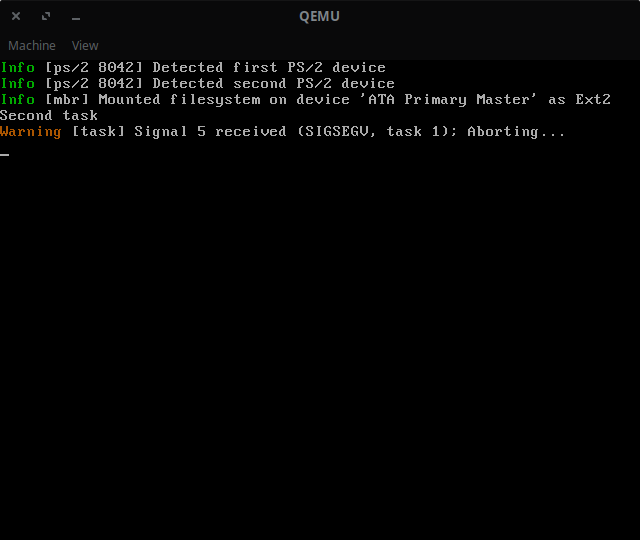
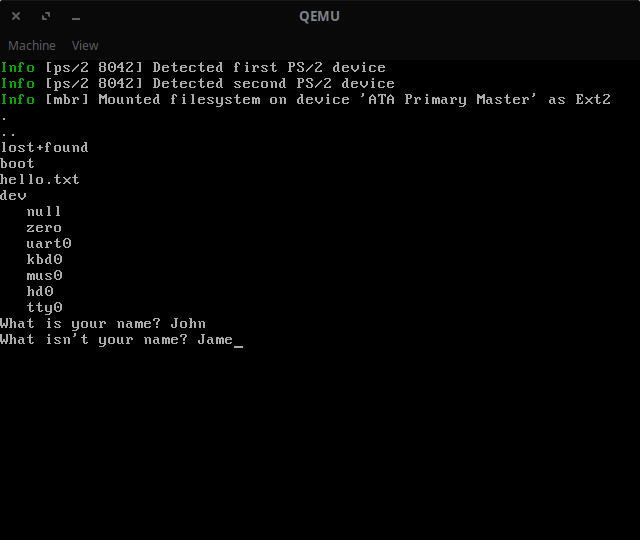
Per-task file I/O

diff --git a/kernel/task.c b/kernel/task.c
@@ -257,8 +257,11 @@ extern task_t *task_new(void *esp, void *seteip) {
 		task->sigh[i] = NULL;
 	task->stale = false;
 	task->sigdone = false;
-	for (uint32_t i = 0; i < TASK_MAXFILES; i++)
-		task->files[i] = NULL;
+	for (uint32_t i = 0; i < TASK_MAXFILES; i++) {
+		task->files[i].file = NULL;
+		task->files[i].flags = 0;
+		task->files[i].pos = 0;
+	}
 
 	task_add_to_list(ready, task);
 	taskmap[id] = task;
@@ -415,6 +418,13 @@ extern void task_free(void) {
 		if (f) page_frame_free(f);
 	}
 
+	/* close files */
+	for (int i = 0; i < TASK_MAXFILES; i++) {
+
+		if (task_active->files[i].file)
+			(void)task_fs_close(i);
+	}
+
 	task_unlockcli();
 }
 
@@ -566,4 +576,154 @@ extern void task_signal(task_t *task, uint32_t sig) {
 	task->sig = sig;
 
 	task_unlockcli();
+}
+
+/* open file */
+extern int task_fs_open(const char *path, uint32_t flags, uint32_t mask) {
+
+	/* find usable file descriptor */
+	int fd = 0;
+	for (; fd < TASK_MAXFILES && task_active->files[fd].file; fd++);
+	if (fd >= TASK_MAXFILES) return -1; /* should be -EMFILE */
+
+	/* locate file */
+	task_lockcli();
+	
+	bool create;
+	const char *fname;
+	fs_node_t *node = fs_resolve_full(path, &create, &fname);
+
+	task_unlockcli();
+	if ((create && ~(flags & FS_CREATE)) || !node)
+		return -1; /* should be -ENOENT */
+
+	task_active->stale = false;
+	task_acquire(node);
+	if (task_active->stale) return -1; /* should be -EAGAIN */
+
+	/* create file */
+	if (create && (flags & FS_CREATE)) {
+
+		fs_node_t *next = fs_create(node, fname, FS_FILE, mask);
+		task_release();
+
+		if (!next) return -1; /* should be either -EACCES or -ENOTDIR */
+		node = next;
+
+		task_active->stale = false;
+		task_acquire(node);
+		if (task_active->stale) return -1; /* should be -EAGAIN */
+	}
+
+	/* determine compatible open flags */
+	uint32_t oflags = 0;
+	if (node->refcnt) {
+
+		bool invflags = false;
+		if (!FS_ISRW(node->oflags)) {
+
+			if ((oflags & FS_READ) != (node->oflags & FS_READ)) invflags = true;
+			if ((oflags & FS_WRITE) != (node->oflags & FS_WRITE)) invflags = true;
+		}
+		if ((oflags & FS_TRUNCATE) != (node->oflags & FS_TRUNCATE)) invflags = true;
+
+		if (invflags) {
+
+			task_release();
+			return -1; /* should be -EINVAL */
+		}
+		oflags = node->oflags;
+	}
+	else oflags = flags & 0xff; /* mask off FS_CREATE and related */
+
+	/* open file */
+	fs_open(node, oflags);
+
+	task_active->files[fd].file = node;
+	task_active->files[fd].flags = flags;
+	task_active->files[fd].pos = 0;
+
+	task_release();
+	return fd;
+}
+
+/* read from file */
+extern kssize_t task_fs_read(int fd, void *buf, size_t cnt) {
+
+	if (fd < 0 || fd >= TASK_MAXFILES || !task_active->files[fd].file)
+		return -1; /* should be -EBADF */
+	fs_node_t *node = task_active->files[fd].file;
+
+	if (!(task_active->files[fd].flags & FS_READ))
+		return -1; /* should be -EBADF */
+
+	task_active->stale = false;
+	task_acquire(node);
+	if (task_active->stale) return -1; /* should be -EAGAIN */
+
+	kssize_t nread = fs_read(node, (uint32_t)task_active->files[fd].pos, cnt, (uint8_t *)buf);
+	task_release();
+
+	return nread;
+}
+
+/* write to file */
+extern kssize_t task_fs_write(int fd, void *buf, size_t cnt) {
+
+	if (fd < 0 || fd >= TASK_MAXFILES || !task_active->files[fd].file)
+		return -1; /* should be -EBADF */
+	fs_node_t *node = task_active->files[fd].file;
+
+	if (!(task_active->files[fd].flags & FS_WRITE))
+		return -1; /* should be -EBADF */
+
+	task_active->stale = false;
+	task_acquire(node);
+	if (task_active->stale) return -1; /* should be -EAGAIN */
+
+	kssize_t nwrite = fs_write(node, (uint32_t)task_active->files[fd].pos, cnt, (uint8_t *)buf);
+	task_release();
+
+	return nwrite;
+}
+
+/* seek to position */
+extern koff_t task_fs_seek(int fd, koff_t pos, int whence) {
+
+	if (fd < 0 || fd >= TASK_MAXFILES || !task_active->files[fd].file)
+		return -1; /* should be -EBADF */
+	if (whence < 0 || whence >= TASK_NWHENCE)
+		return -1; /* should be -EINVAL */
+
+	if (whence == TASK_SEEK_SET) task_active->files[fd].pos = pos;
+	else if (whence == TASK_SEEK_CUR) task_active->files[fd].pos += pos;
+	else if (whence == TASK_SEEK_END) task_active->files[fd].pos = task_active->files[fd].file->len - pos;
+
+	task_active->files[fd].pos = CLAMP(task_active->files[fd].pos, 0, task_active->files[fd].file->len);
+	return task_active->files[fd].pos;
+}
+
+/* get file position */
+extern koff_t task_fs_tell(int fd) {
+
+	if (fd < 0 || fd >= TASK_MAXFILES || !task_active->files[fd].file)
+		return -1; /* should be -EBADF */
+	return task_active->files[fd].pos;
+}
+
+/* close file */
+extern int task_fs_close(int fd) {
+
+	if (fd < 0 || fd >= TASK_MAXFILES || !task_active->files[fd].file)
+		return -1; /* should be -EBADF */
+	fs_node_t *node = task_active->files[fd].file;
+
+	task_active->stale = false;
+	task_acquire(node);
+	if (task_active->stale) return -1; /* should be -EAGAIN */
+
+	fs_close(node);
+	task_release();
+
+	return 0;
 }

diff --git a/include/kernel/task.h b/include/kernel/task.h
@@ -41,6 +41,12 @@
 
 typedef void (*task_sig_t)();
 
+/* seek whences */
+#define TASK_SEEK_SET 0
+#define TASK_SEEK_CUR 1
+#define TASK_SEEK_END 2
+#define TASK_NWHENCE 3
+
 /* task control block */
 #define TASK_MAXFILES 32
 
@@ -61,7 +67,11 @@ typedef struct task {
 	task_sig_t sigh[TASK_NSIG]; /* signal handlers */
 	bool stale; /* a signal changed the task state */
 	bool sigdone; /* the signal is finished being handled */
-	fs_node_t *files[TASK_MAXFILES]; /* file table */
+	struct {
+		fs_node_t *file; /* vfs node */
+		uint32_t flags; /* flags passed from open */
+		long pos; /* position in file */
+	} files[TASK_MAXFILES]; /* file table */
 } task_t;
 
 extern task_t *ktask; /* base kernel task */
@@ -84,18 +94,29 @@ extern void task_lockpost(void); /* lock task switches */
 extern void task_unlockpost(void); /* unlock task switches */
 extern void task_block(uint32_t reason); /* block current task */
 extern void task_unblock(task_t *task); /* unblock task */
+
 extern void task_nano_sleep_until(uint64_t waketime); /* sleep in nanoseconds until */
 extern void task_nano_sleep(uint64_t ns); /* sleep in nanoseconds */
 extern void task_sleep(uint32_t s); /* sleep in seconds */
+
 extern void task_free(void); /* free pages used by current task */
 extern void task_terminate(void); /* terminate current task */
 extern void task_cleanup(void); /* clean up terminated tasks */
 extern void task_acquire(fs_node_t *node); /* acquire resource */
 extern void task_release(void); /* release held resource */
+
 extern uint64_t task_get_global_time(void); /* get time for all tasks */
 extern void task_entry(void); /* task entry point */
+
 extern void task_raise(uint32_t sig); /* raise signal on current task */
 extern void task_signal(task_t *task, uint32_t sig); /* raise signal on other task */
 extern void task_handle_signal(void); /* routine to handle signal; do not call directly */
+
+extern int task_fs_open(const char *path, uint32_t flags, uint32_t mask); /* open file */
+extern kssize_t task_fs_read(int fd, void *buf, size_t cnt); /* read from file */
+extern kssize_t task_fs_write(int fd, void *buf, size_t cnt); /* write to file */
+extern koff_t task_fs_seek(int fd, koff_t pos, int whence); /* seek to position */
+extern koff_t task_fs_tell(int fd); /* get file position */
+extern int task_fs_close(int fd); /* close file */
 
 #endif /* ECLAIR_TASK_H */

diff --git a/kernel/vfs/fs.c b/kernel/vfs/fs.c
@@ -189,11 +189,12 @@ extern fs_node_t *fs_mount(fs_node_t *node, fs_node_t *device) {
 }
 
 /* resolve a path to a node */
-extern fs_node_t *fs_resolve_full(const char *path, bool *create) {
+extern fs_node_t *fs_resolve_full(const char *path, bool *create, const char **fname) {
 
 	fs_node_t *node = fs_root;
 	size_t pathlen = strlen(path);
 	size_t len = 0;
+	const char *oldpath = path;
 	
 	while (path) {
 
@@ -206,6 +207,7 @@ extern fs_node_t *fs_resolve_full(const char *path, bool *create) {
 
 		strncpy(pathbuf, path, MIN(size, PATHBUFSZ-1));
 
+		oldpath = path;
 		path = end? end+1: NULL;
 		len += size+1;
 		if (!size) continue;
@@ -217,6 +219,7 @@ extern fs_node_t *fs_resolve_full(const char *path, bool *create) {
 			if (!path) {
 				
 				*create = true;
+				*fname = oldpath;
 				return node;
 			}
 			else return NULL;
@@ -225,6 +228,7 @@ extern fs_node_t *fs_resolve_full(const char *path, bool *create) {
 	}
 
 	*create = false;
+	*fname = NULL;
 	return node;
 }
 
@@ -232,8 +236,9 @@ extern fs_node_t *fs_resolve_full(const char *path, bool *create) {
 extern fs_node_t *fs_resolve(const char *path) {
 
 	bool create = false;
+	const char *fname = NULL;
 	fs_node_t *node = NULL;
-	if (!(node = fs_resolve_full(path, &create)) || create)
+	if (!(node = fs_resolve_full(path, &create, &fname)) || create)
 		return NULL;
 	return node;
 }

diff --git a/kernel/main.c b/kernel/main.c
@@ -41,7 +41,7 @@ extern void kernel_main() {
 	fs_node_print(fs_root);
 	task_init();
 
-	task1 = task_new(NULL, task_entry);
+	//task1 = task_new(NULL, task_entry);
 	task2 = task_new(NULL, func2);
 	task3 = task_new(NULL, func3);
 
@@ -57,13 +57,15 @@ static void func2() {
 
 	task_unlockcli();
 
-	char buf[32];
-	while (true) {
+	int fstdin = task_fs_open("/dev/tty0", FS_READ, 0);
+	int fstdout = task_fs_open("/dev/tty0", FS_WRITE, 0);
 
-		task_acquire(ttydev);
-		tty_printf("Second task\n");
-		fs_read(ttydev, 0, 32, buf);
-		task_release();
+	char buf[32];
+
+	task_fs_write(fstdout, "What is your name? ", 19);
+	task_fs_read(fstdin, buf, 32);
+
+	while (true) {
 
 		asm volatile("hlt");
 	}
@@ -73,13 +75,14 @@ static void func3() {
 
 	task_unlockcli();
 
-	char buf[32];
-	while (true) {
+	int ftty = task_fs_open("/dev/tty0", FS_READ | FS_WRITE, 0);
 
-		task_acquire(ttydev);
-		tty_printf("Third task\n");
-		fs_read(ttydev, 0, 32, buf);
-		task_release();
+	char buf[32];
+
+	task_fs_write(ftty, "What isn't your name? ", 22);
+	task_fs_read(ftty, buf, 32);
+
+	while (true) {
 
 		asm volatile("hlt");
 	}

diff --git a/include/kernel/vfs/fs.h b/include/kernel/vfs/fs.h
@@ -19,6 +19,9 @@ struct fs_node;
 #define FS_READ 0x1
 #define FS_WRITE 0x2
 #define FS_TRUNCATE 0x4
+#define FS_CREATE 0x100
+
+#define FS_ISRW(fl) (((fl) & FS_READ) && ((fl) & FS_WRITE))
 
 /* file operations */
 typedef kssize_t (*fs_read_t)(struct fs_node *, uint32_t, size_t, uint8_t *);
@@ -89,7 +92,7 @@ extern bool fs_isheld(fs_node_t *node); /* check if resource is held/busy */
 extern fs_node_t *fs_create(fs_node_t *node, const char *name, uint32_t flags, uint32_t mask); /* create a node as a child */
 extern fs_node_t *fs_mount(fs_node_t *node, fs_node_t *device); /* mount device node */
 
-extern fs_node_t *fs_resolve_full(const char *path, bool *create); /* resolve a path to a node */
+extern fs_node_t *fs_resolve_full(const char *path, bool *create, const char **fname); /* resolve a path to a node */
 extern fs_node_t *fs_resolve(const char *path); /* resolve a path to a node strictly */
 
 #endif /* ECLAIR_VFS_FS_H */

diff --git a/include/kernel/types.h b/include/kernel/types.h
@@ -7,11 +7,13 @@
 #include <stdbool.h>
 
 typedef long kssize_t;
+typedef long koff_t;
 
 /* misc */
 #define ALIGN(x, sz) (((x) + ((sz)-1)) & ~(sz-1))
 
 #define MIN(x, y) ((x) < (y)? (x): (y))
 #define MAX(x, y) ((x) > (y)? (x): (y))
+#define CLAMP(x, a, b) MIN(MAX(x, a), b)
 
 #endif /* ECLAIR_TYPES_H */

diff --git a/kernel/tty.c b/kernel/tty.c
@@ -28,6 +28,7 @@ extern void tty_init(void) {
 extern void tty_init_devfs(void) {
 
 	fs_node_t *node = fs_node_new(NULL, FS_CHARDEVICE);
+	fs_open(node, FS_READ | FS_WRITE);
 	
 	if (nttydev) node->read = ttydev[0]->read;
 	node->write = write_fs;
